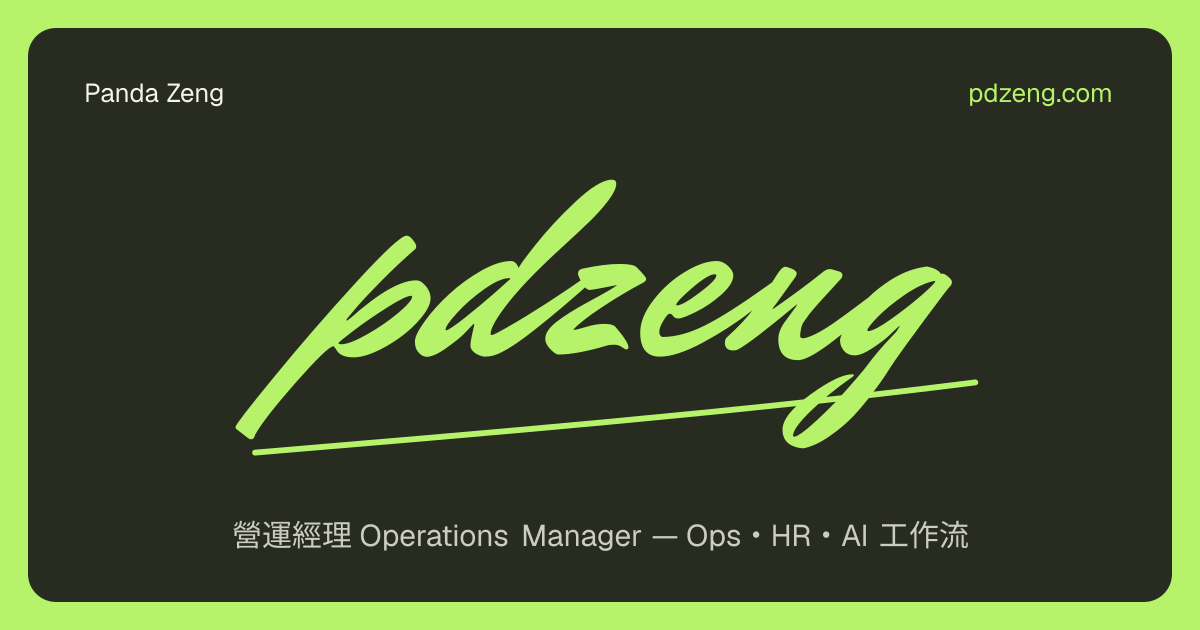
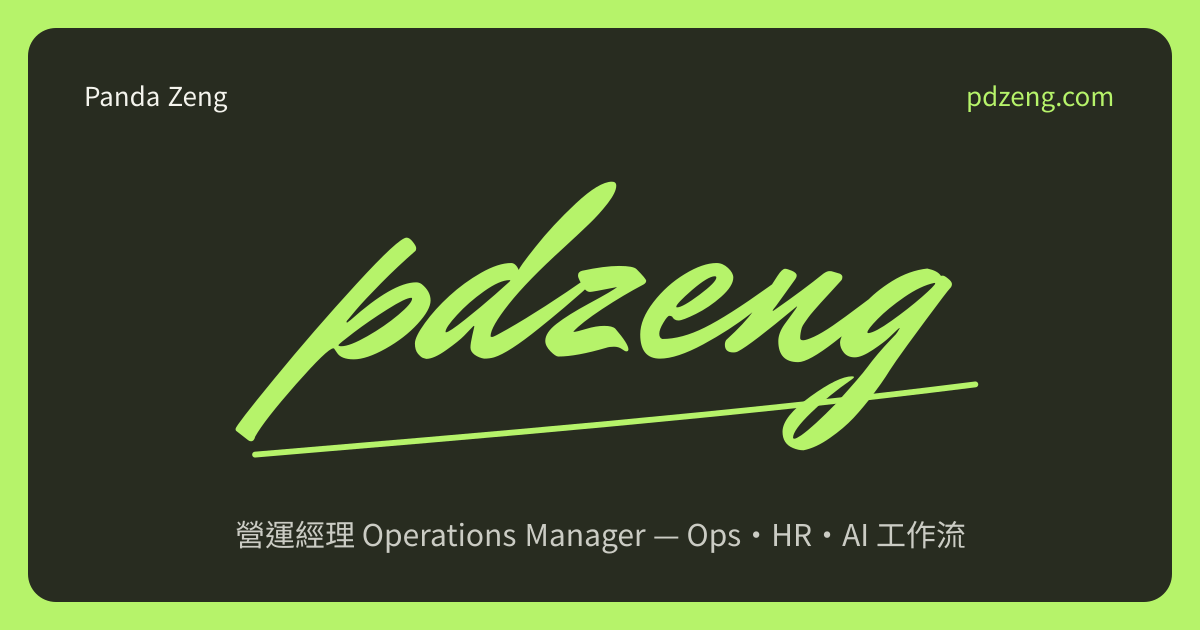
fix(og): render the OG image from a bundled OFL Noto Sans TC subset
next/og fetched CJK glyphs from Google Fonts at build time; offline builds rendered tofu. The OG route
now reads a 22 KB Noto Sans TC subset (OFL, licence alongside) so it makes no network requests, and a
test fails if the tagline needs a glyph the subset lacks.

diff --git a/tests/e2e-home.test.js b/tests/e2e-home.test.js
@@ -1,6 +1,7 @@
 import { describe, expect, test } from "bun:test";
 import { existsSync, readFileSync } from "node:fs";
 import { join } from "node:path";
+import { OG_TAGLINE } from "../lib/site-meta.ts";
 
 const OUT = join(import.meta.dir, "..", "out");
 
@@ -176,5 +177,57 @@ describe("about and OG image", () => {
     expect(png.subarray(1, 4).toString()).toBe("PNG");
     expect(png.readUInt32BE(16)).toBe(1200);
     expect(png.readUInt32BE(20)).toBe(630);
+  });
+});
+
+// Code points mapped by a TrueType font's Unicode cmap (formats 4 and 12 are all pyftsubset emits)
+function cmapCodePoints(buf) {
+  const tables = buf.readUInt16BE(4);
+  let cmap = -1;
+  for (let i = 0; i < tables; i++) {
+    const rec = 12 + i * 16;
+    if (buf.toString("latin1", rec, rec + 4) === "cmap") cmap = buf.readUInt32BE(rec + 8);
+  }
+  const points = new Set();
+  const subtables = buf.readUInt16BE(cmap + 2);
+  for (let i = 0; i < subtables; i++) {
+    const sub = cmap + buf.readUInt32BE(cmap + 4 + i * 8 + 4);
+    const format = buf.readUInt16BE(sub);
+    if (format === 4) {
+      const segX2 = buf.readUInt16BE(sub + 6);
+      const ends = sub + 14;
+      const starts = ends + segX2 + 2;
+      for (let s = 0; s < segX2; s += 2) {
+        const end = buf.readUInt16BE(ends + s);
+        for (let c = buf.readUInt16BE(starts + s); c <= end && c !== 0xffff; c++) points.add(c);
+      }
+    } else if (format === 12) {
+      const groups = buf.readUInt32BE(sub + 12);
+      for (let g = 0; g < groups; g++) {
+        const at = sub + 16 + g * 12;
+        for (let c = buf.readUInt32BE(at); c <= buf.readUInt32BE(at + 4); c++) points.add(c);
+      }
+    }
+  }
+  return points;
+}
+
+describe("OG image font", () => {
+  const FONTS = join(import.meta.dir, "..", "assets", "fonts");
+
+  test("the bundled subset covers every character the OG image draws, so next/og never fetches a font", () => {
+    const points = cmapCodePoints(readFileSync(join(FONTS, "NotoSansTC-og-subset.ttf")));
+    const missing = [...new Set(["Panda Zeng", "pdzeng.com", OG_TAGLINE].join(""))].filter((ch) => !points.has(ch.codePointAt(0)));
+    expect(missing).toEqual([]);
+  });
+
+  test("the font ships with its OFL licence", () => {
+    expect(readFileSync(join(FONTS, "OFL.txt"), "utf8")).toContain("SIL Open Font License, Version 1.1");
+  });
+
+  test("the OG route reads the bundled font instead of relying on next/og's network fallback", () => {
+    const src = readFileSync(join(import.meta.dir, "..", "app", "opengraph-image.tsx"), "utf8");
+    expect(src).toContain("assets/fonts/NotoSansTC-og-subset.ttf");
+    expect(src).toMatch(/fonts: \[\{ name: "Noto Sans TC"/);
   });
 });

diff --git a/app/opengraph-image.tsx b/app/opengraph-image.tsx
@@ -1,8 +1,10 @@
+import { readFile } from "node:fs/promises";
+import { join } from "node:path";
 import { ImageResponse } from "next/og";
 import { GLYPH } from "@/components/signature";
 import { OG_ALT, OG_TAGLINE } from "@/lib/site-meta";
 
-// upgrade: per-article OG cards with the zh title need a bundled CJK font subset
+// upgrade: per-article OG cards with the zh title need a subset covering those titles too
 export const dynamic = "force-static";
 export const alt = OG_ALT;
 export const size = { width: 1200, height: 630 };
@@ -13,7 +15,11 @@ const OLIVE = "#282c20";
 const CREAM = "#f4f4ed";
 const NEON = "#b6f36a";
 
-export default function OgImage() {
+// Bundled OFL subset (assets/fonts/README.md): with any glyph missing, next/og would fetch Google Fonts
+const OG_FONT_PATH = join(process.cwd(), "assets/fonts/NotoSansTC-og-subset.ttf");
+
+export default async function OgImage() {
+  const font = await readFile(OG_FONT_PATH);
   return new ImageResponse(
     (
       <div
@@ -23,7 +29,7 @@ export default function OgImage() {
           display: "flex",
           padding: 28,
           background: NEON,
-          fontFamily: "sans-serif",
+          fontFamily: "Noto Sans TC",
         }}
       >
         <div
@@ -51,6 +57,6 @@ export default function OgImage() {
         </div>
       </div>
     ),
-    size
+    { ...size, fonts: [{ name: "Noto Sans TC", data: font, weight: 400, style: "normal" }] }
   );
 }

diff --git a/assets/fonts/README.md b/assets/fonts/README.md
@@ -1,0 +1,22 @@
+# OG image font
+
+`NotoSansTC-og-subset.ttf` is the only font `app/opengraph-image.tsx` renders with, read from disk at
+build time so the OG image never fetches fonts over the network. It covers printable ASCII plus the CJK
+and punctuation of both candidate OG taglines; `tests/e2e-home.test.js` fails if the current tagline
+needs a glyph it lacks.
+
+- Font: Noto Sans TC, SIL Open Font License 1.1 (`OFL.txt`). Reserved Font Name: "Source"; the subset keeps
+  the Noto Sans TC name, which is not reserved.
+- Source: `ofl/notosanstc/NotoSansTC[wght].ttf` from github.com/google/fonts at
+  3be1884c48c3e45b52ecc725676a08f87776373e (sha256 864727d2…246bd44f).
+- Built outside the repo with fonttools 4.55.3:
+
+```sh
+fonttools varLib.instancer 'NotoSansTC[wght].ttf' wght=400 --update-name-table -o NotoSansTC-400.ttf
+pyftsubset NotoSansTC-400.ttf --text-file=og-text.txt --unicodes=U+0020-007E \
+  --name-IDs='*' --name-legacy --name-languages='*' --notdef-outline --no-hinting \
+  --output-file=NotoSansTC-og-subset.ttf
+```
+
+`og-text.txt` is the two taglines concatenated. Changing the tagline to new characters means regenerating
+the subset the same way.
